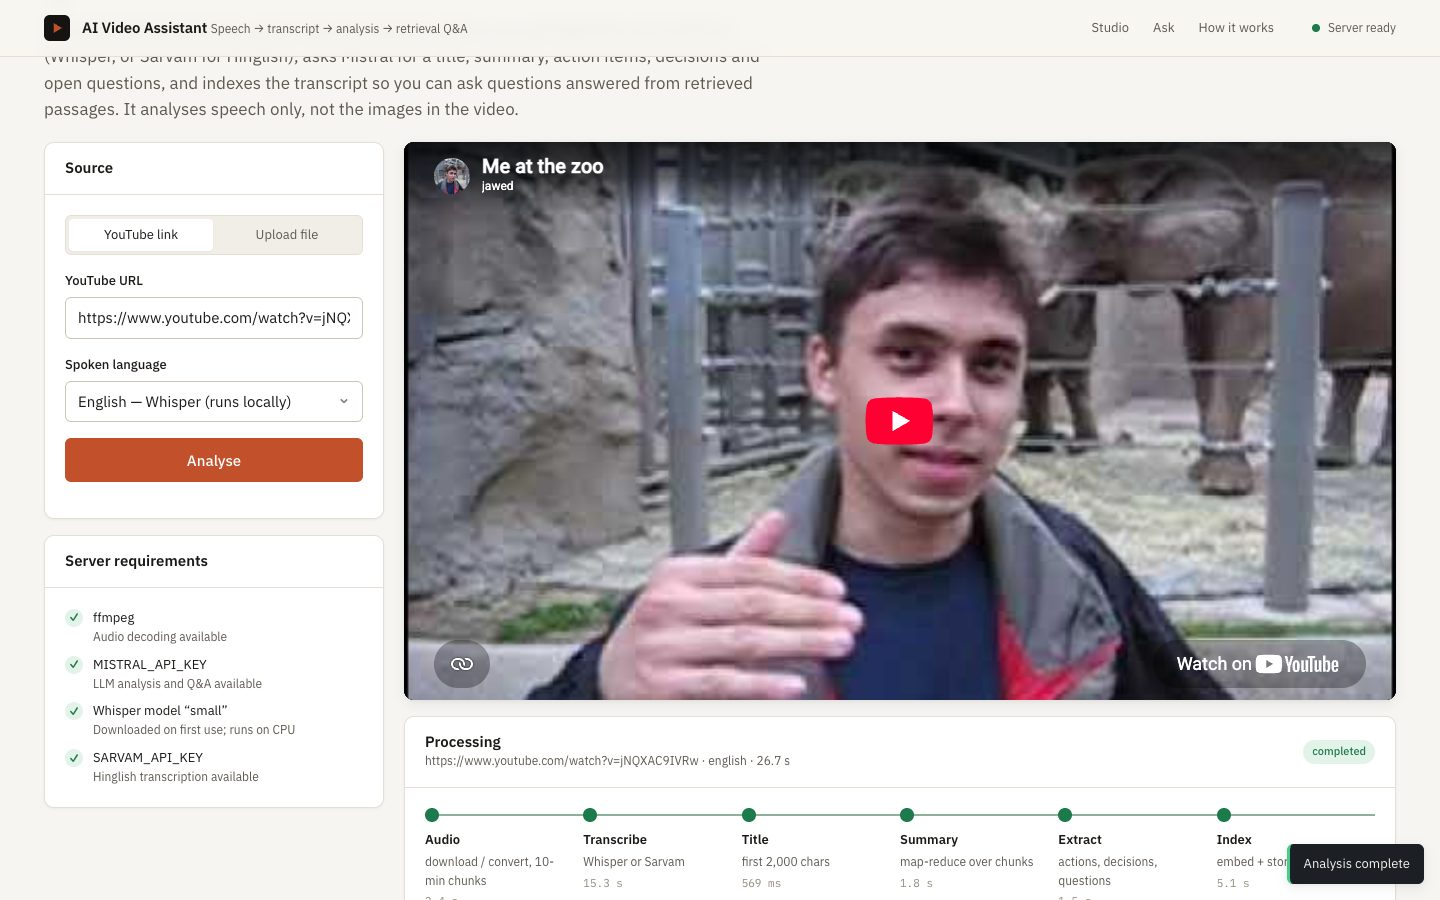
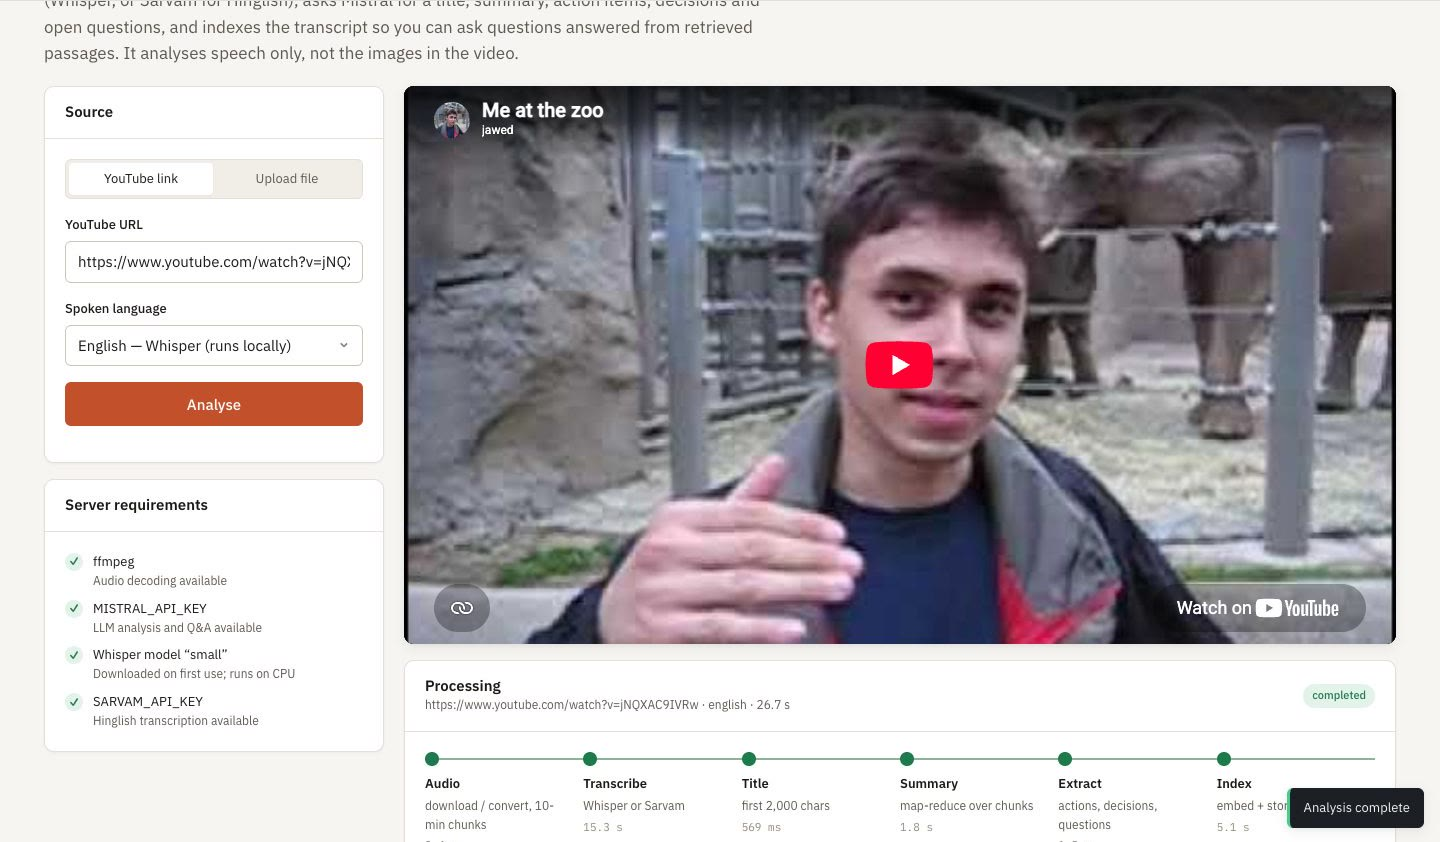
Rename projects; link GraphMind live demo; refresh screenshots
- New project names: GraphMind, Moodalyx, CreditCompass, Scholaryx, Verbalyx
- Repository links point to the renamed repositories
- GraphMind: live demo link (Render free plan, cold-start note)
- New screenshots for GraphMind, Moodalyx and CreditCompass from real runs;
  the Scholaryx and Verbalyx screenshots are cropped to remove the old app
  names until they are retaken

diff --git a/index.html b/index.html
@@ -73,10 +73,10 @@
 
       <!-- 1 · GNN -->
       <article class="project" id="gnn" aria-labelledby="gnn-title">
-        <figure class="shot"><img src="assets/gnn.jpg" width="1440" height="900" loading="lazy" alt="Cora GCN explorer showing a paper's two-hop citation neighbourhood graph, the predicted topic with class probabilities, and an edge-ablation note."></figure>
+        <figure class="shot"><img src="assets/gnn.jpg" width="1440" height="900" loading="lazy" alt="GraphMind explorer showing a paper's two-hop citation neighbourhood graph, the predicted topic with class probabilities, and an edge-ablation note."></figure>
         <div class="project-body">
           <p class="eyebrow">Graph neural networks · node classification</p>
-          <h3 class="project-title" id="gnn-title">Topic classification on the Cora citation graph</h3>
+          <h3 class="project-title" id="gnn-title">GraphMind: topic classification on the Cora citation graph</h3>
           <p class="project-lede">A two-layer graph convolutional network labels 2,708 papers with one of seven topics, using each paper's word features and its citation links. The model runs in ONNX Runtime behind FastAPI.</p>
           <dl class="metrics">
             <div><dt>Test accuracy</dt><dd>0.792</dd><span class="tag tag-live">re-evaluated</span></div>
@@ -96,16 +96,16 @@
             </div>
           </details>
           <p class="stack-line">PyTorch Geometric · ONNX Runtime · FastAPI · vanilla JS / SVG</p>
-          <p class="links"><a class="btn btn-sm" href="https://github.com/anshaiml369/cora-gcn-explorer">Code</a><span class="badge">Live demo: not deployed yet</span></p>
+          <p class="links"><a class="btn btn-sm btn-primary" href="https://graphmind-n10l.onrender.com/">Live demo</a><a class="btn btn-sm" href="https://github.com/anshaiml369/graphmind">Code</a><span class="badge">Free hosting: the first visit can take about a minute to wake the server</span></p>
         </div>
       </article>
 
       <!-- 2 · Emotion -->
       <article class="project" id="emotion" aria-labelledby="emotion-title">
-        <figure class="shot"><img src="assets/emotion.jpg" width="1440" height="900" loading="lazy" alt="Text emotion classifier showing the sentence “I feel so alone and hopeless today” predicted as sadness with a probability distribution over six labels."></figure>
+        <figure class="shot"><img src="assets/emotion.jpg" width="1440" height="900" loading="lazy" alt="Moodalyx showing the sentence “I feel so alone and hopeless today” predicted as sadness with a probability distribution over six labels."></figure>
         <div class="project-body">
           <p class="eyebrow">Natural language processing · recurrent networks</p>
-          <h3 class="project-title" id="emotion-title">Emotion-label prediction with a bidirectional GRU</h3>
+          <h3 class="project-title" id="emotion-title">Moodalyx: emotion-label prediction with a bidirectional GRU</h3>
           <p class="project-lede">A stacked BiGRU (3.45 M parameters) trained on dair-ai/emotion predicts one of six labels for short English text. It reports the full probability distribution and shows the cleaned tokens the model actually reads.</p>
           <dl class="metrics">
             <div><dt>Test accuracy</dt><dd>0.921</dd><span class="tag tag-live">re-evaluated</span></div>
@@ -125,16 +125,16 @@
             </div>
           </details>
           <p class="stack-line">TensorFlow / Keras · FastAPI · Hugging Face Datasets · vanilla JS</p>
-          <p class="links"><a class="btn btn-sm" href="https://github.com/anshaiml369/text-emotion-bigru">Code</a><span class="badge">Live demo: not deployed yet</span></p>
+          <p class="links"><a class="btn btn-sm" href="https://github.com/anshaiml369/moodalyx">Code</a><span class="badge">Live demo: not deployed yet</span></p>
         </div>
       </article>
 
       <!-- 3 · Credit -->
       <article class="project" id="credit" aria-labelledby="credit-title">
-        <figure class="shot"><img src="assets/credit.jpg" width="1440" height="900" loading="lazy" alt="Credit default model showing an application form, an estimated default probability of 3.5 percent against a 69.5 percent threshold, and the observed default rate for similar scores."></figure>
+        <figure class="shot"><img src="assets/credit.jpg" width="1440" height="900" loading="lazy" alt="CreditCompass showing an application form, an estimated default probability of 3.5 percent against a 69.5 percent threshold, and the observed default rate for similar scores."></figure>
         <div class="project-body">
           <p class="eyebrow">Tabular ML · probability calibration</p>
-          <h3 class="project-title" id="credit-title">Calibrated loan-default probability with XGBoost</h3>
+          <h3 class="project-title" id="credit-title">CreditCompass: calibrated loan-default probability with XGBoost</h3>
           <p class="project-lede">An XGBoost pipeline, tuned by randomized search and wrapped in sigmoid calibration, estimates default probability from 11 application features. Each estimate is shown next to the default rate actually observed among held-out applicants with similar scores.</p>
           <dl class="metrics">
             <div><dt>ROC-AUC</dt><dd>0.953</dd><span class="tag tag-live">re-evaluated</span></div>
@@ -154,16 +154,16 @@
             </div>
           </details>
           <p class="stack-line">scikit-learn · XGBoost · FastAPI · vanilla JS / SVG</p>
-          <p class="links"><a class="btn btn-sm" href="https://github.com/anshaiml369/credit-default-xgboost">Code</a><span class="badge">Live demo: not deployed yet</span></p>
+          <p class="links"><a class="btn btn-sm" href="https://github.com/anshaiml369/creditcompass">Code</a><span class="badge">Live demo: not deployed yet</span></p>
         </div>
       </article>
 
       <!-- 4 · Multi-agent -->
       <article class="project" id="agents" aria-labelledby="agents-title">
-        <figure class="shot"><img src="assets/multiagent.jpg" width="1440" height="900" loading="lazy" alt="Multi-agent research workbench in dark mode, showing four completed pipeline stages with timings, a generated research report on CRISPR gene editing, and measured token usage."></figure>
+        <figure class="shot"><img src="assets/multiagent.jpg" width="1440" height="842" loading="lazy" alt="Scholaryx multi-agent research workbench in dark mode, showing four completed pipeline stages with timings, a generated research report on CRISPR gene editing, and measured token usage."></figure>
         <div class="project-body">
           <p class="eyebrow">Agentic AI · tool-using LLM agents</p>
-          <h3 class="project-title" id="agents-title">Sequential multi-agent research pipeline</h3>
+          <h3 class="project-title" id="agents-title">Scholaryx: a sequential multi-agent research pipeline</h3>
           <p class="project-lede">A search agent (Tavily), a reader agent (web scraping), a writer chain and a critic chain turn a topic into a structured report with a self-critique. The workbench shows each stage live, along with the measured cost.</p>
           <dl class="metrics">
             <div><dt>End-to-end run</dt><dd>27–32 s</dd><span class="tag tag-run">measured</span></div>
@@ -183,16 +183,16 @@
             </div>
           </details>
           <p class="stack-line">LangChain · OpenAI gpt-4o-mini · Tavily · FastAPI · vanilla JS</p>
-          <p class="links"><a class="btn btn-sm" href="https://github.com/anshaiml369/multi-agent-research-workbench">Code</a><span class="badge">Live demo: not deployed yet</span></p>
+          <p class="links"><a class="btn btn-sm" href="https://github.com/anshaiml369/scholaryx">Code</a><span class="badge">Live demo: not deployed yet</span></p>
         </div>
       </article>
 
       <!-- 5 · Video RAG -->
       <article class="project" id="video" aria-labelledby="video-title">
-        <figure class="shot"><img src="assets/video.jpg" width="1440" height="900" loading="lazy" alt="AI video assistant studio with a YouTube video preview, source and language controls, and six completed processing stages from audio extraction to indexing."></figure>
+        <figure class="shot"><img src="assets/video.jpg" width="1440" height="842" loading="lazy" alt="Verbalyx studio with a YouTube video preview, source and language controls, and six completed processing stages from audio extraction to indexing."></figure>
         <div class="project-body">
           <p class="eyebrow">Speech recognition · retrieval-augmented generation</p>
-          <h3 class="project-title" id="video-title">Question answering over what is said in a video</h3>
+          <h3 class="project-title" id="video-title">Verbalyx: question answering over what is said in a video</h3>
           <p class="project-lede">Audio from a YouTube link or an uploaded file is transcribed (Whisper, or Sarvam for Hinglish), summarised by an LLM, and indexed in Chroma. Each answer is shown next to the transcript passages it was given.</p>
           <dl class="metrics">
             <div><dt>Whisper errors, 40 s test clip</dt><dd>1 / ≈110 words</dd><span class="tag tag-run">measured</span></div>
@@ -212,7 +212,7 @@
             </div>
           </details>
           <p class="stack-line">Whisper · Sarvam · LangChain · Mistral · Chroma · MiniLM embeddings · FastAPI</p>
-          <p class="links"><a class="btn btn-sm" href="https://github.com/anshaiml369/ai-video-assistant-rag">Code</a><span class="badge">Live demo: not deployed yet</span></p>
+          <p class="links"><a class="btn btn-sm" href="https://github.com/anshaiml369/verbalyx">Code</a><span class="badge">Live demo: not deployed yet</span></p>
         </div>
       </article>
     </div>

diff --git a/README.md b/README.md
@@ -5,11 +5,11 @@ served by GitHub Pages. It summarises five projects and links to each one's repo
 
 | Project | Repository |
 |---|---|
-| Topic classification on the Cora citation graph (GCN) | [cora-gcn-explorer](https://github.com/anshaiml369/cora-gcn-explorer) |
-| Emotion-label prediction with a bidirectional GRU | [text-emotion-bigru](https://github.com/anshaiml369/text-emotion-bigru) |
-| Calibrated loan-default probability with XGBoost | [credit-default-xgboost](https://github.com/anshaiml369/credit-default-xgboost) |
-| Sequential multi-agent research pipeline | [multi-agent-research-workbench](https://github.com/anshaiml369/multi-agent-research-workbench) |
-| Question answering over what is said in a video (RAG) | [ai-video-assistant-rag](https://github.com/anshaiml369/ai-video-assistant-rag) |
+| GraphMind: topic classification on the Cora citation graph (GCN) | [graphmind](https://github.com/anshaiml369/graphmind) · [live demo](https://graphmind-n10l.onrender.com/) |
+| Moodalyx: emotion-label prediction with a bidirectional GRU | [moodalyx](https://github.com/anshaiml369/moodalyx) |
+| CreditCompass: calibrated loan-default probability with XGBoost | [creditcompass](https://github.com/anshaiml369/creditcompass) |
+| Scholaryx: a sequential multi-agent research pipeline | [scholaryx](https://github.com/anshaiml369/scholaryx) |
+| Verbalyx: question answering over what is said in a video (RAG) | [verbalyx](https://github.com/anshaiml369/verbalyx) |
 
 Each project began from a public YouTube tutorial and was extended with a research interface, re-evaluation,
 error analysis and documented limitations. Every metric on the page is labelled with its source.
